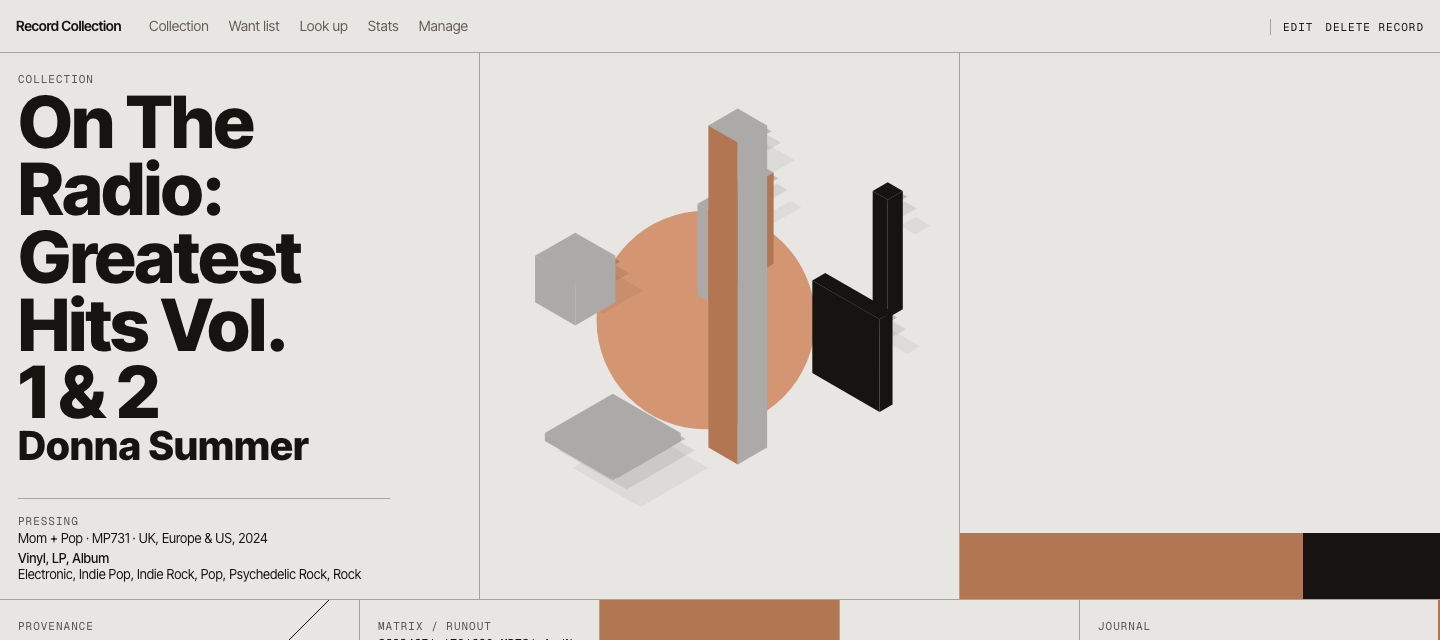
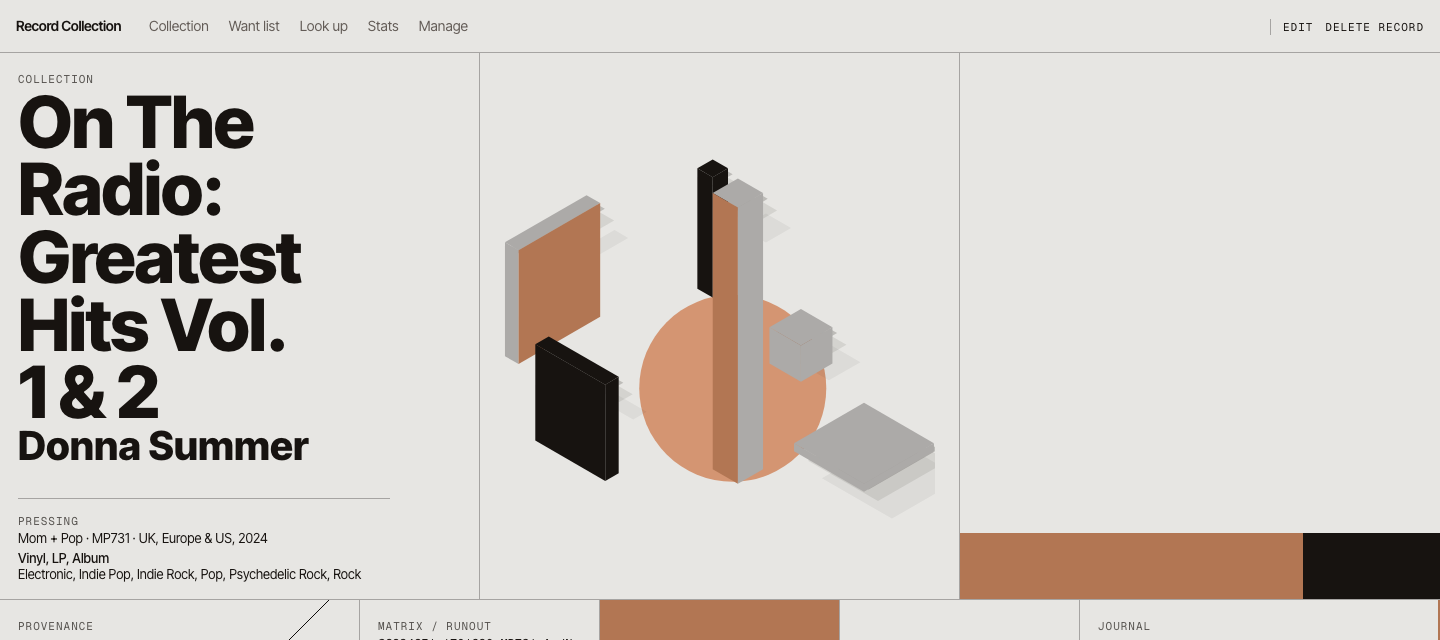
Step 29(g): remove FRAME_PAD, the fit check and scale-to-fit
Design ruled the orphaned pad: "remove FRAME_PAD -- the construction's
only margin is the cell's padding." §31 goes with it in whole, taking the
fit check and the scale-to-fit fallback.

**The no-pad prediction holds exactly.** Removing the pad takes the
largest gain to 1.644x, the figure predicted from the arithmetic, on
`158a3163...c724` -- the record that was at 1.396x with the pad.

Floor against the re-derived baseline (0.5084% worst, 0.7535% median):
worst 1.0674%, median 1.5375%, none below 0.5%.

§31's test block is replaced rather than deleted: the mechanism is gone,
but the measurements that justified removing it are the point, so they
are recorded in its place -- 13.8% rejected, deepest 5 of a 32 cap, and
scale-to-fit firing 0 times in 5,000 ids even while the check was live,
which is what made it unreachable rather than merely unused.

Two corrections to my own work: the capture's fixture provenance is now
stated field by field, since only the id traces to the shared extremes
file and every displayed value is hand-entered; and the claim that the
biggest-gain record was captured on the construction sheet was wrong --
the sheet draws what the database holds, which is the two records seeded.

Claude-Session: https://claude.ai/code/session_016BvBQ4Xoe5q9Vf6SpETPpH

Changed region(s): [[0.3438, 0.1562, 0.6562, 0.7812]]

diff --git a/src/app/records/[id]/construction.test.ts b/src/app/records/[id]/construction.test.ts
@@ -59,222 +59,48 @@ describe('the projection is the wall’s, generalised (§1)', () => {
   });
 });
 
-describe('§31: the frame is a STATED constant, and arrangements must fit it', () => {
-  /**
-   * **The frame stops tracking the collection.** §31: "A frame fitted to the
-   * collection's extremes is a mutable input to every record's drawing.
-   * Buying one record with a wider arrangement rescales all the others, and
-   * through §22's guard it can change an existing record's colour placement
-   * or even its arrangement. §5.1 forbids feeding the drawing anything that
-   * changes, and the collection changes every time Adam buys a record."
-   *
-   * So the extent measured in step 18 is written in as a number, and an
-   * arrangement that does not fit advances the hash — the same mechanism
-   * §22 uses for colour.
-   */
-  it('is the measured union rounded UP, stated rather than computed', () => {
-    /*
-      §31: "The constant is the measured union rounded up to the next whole
-      unit, and the rounding is the tolerance, not slack. At full precision
-      the widest current record would fit by exactly zero, which makes its
-      fit an equality: a coincidence, not a margin."
-    */
-    expect(CONSTRUCTION_FRAME, 'the stated constant').toBe('-140 -186 296 314');
+describe('§31 is withdrawn in whole, and its mechanism is gone (§33, step 29g)', () => {
+  /*
+    **What these tests covered, and why they are not simply deleted.**
 
-    /* And it really does contain the union it was measured from. */
-    const [fx, fy, fw, fh] = CONSTRUCTION_FRAME.split(' ').map(Number);
-    let minX = Infinity;
-    let minY = Infinity;
-    let maxX = -Infinity;
-    let maxY = -Infinity;
-    for (const id of REAL_IDS) {
-      const { forms, disc } = construction(id);
-      for (const [x, y] of forms.flatMap((f) => f.faces.flatMap((face) => face.points))) {
-        minX = Math.min(minX, x);
-        maxX = Math.max(maxX, x);
-        minY = Math.min(minY, y);
-        maxY = Math.max(maxY, y);
-      }
-      minX = Math.min(minX, disc.cx - disc.r);
-      maxX = Math.max(maxX, disc.cx + disc.r);
-      minY = Math.min(minY, disc.cy - disc.r);
-      maxY = Math.max(maxY, disc.cy + disc.r);
-    }
-    /*
-      The frame contains every record's drawing with the pad still inside it:
-      the constant ALREADY includes `FRAME_PAD`, so the comparison is against
-      the raw union, not against the union less the pad — subtracting it here
-      double-counted and reported the frame 16 units short at the top.
-    */
-    expect(fx, 'left of every record').toBeLessThanOrEqual(minX);
-    expect(fy, 'above every record').toBeLessThanOrEqual(minY);
-    expect(fx + fw, 'right of every record').toBeGreaterThanOrEqual(maxX);
-    expect(fy + fh, 'below every record').toBeGreaterThanOrEqual(maxY);
+    This block asserted §31's fit check, its hash advance and its
+    scale-to-fit fallback: that the guard fired on ~14% of ids, that no id
+    reached the 32-advance cap, and that the two fallbacks composed. All three
+    now fail, because §33 withdrew §31 in whole and step 29(g) removed the
+    code.
 
-    /*
-      No slack beyond the pad and the rounding: §31 rules the frame "exactly
-      the measured union, with no slack", because slack lowers every record's
-      scale. So each side sits one pad plus under a unit outside the union.
-    */
-    expect(minX - fx, 'left: one pad, plus the origin flooring').toBeLessThan(FRAME_PAD + 1);
-    expect(fx + fw - maxX, 'right: one pad, plus the rounding up').toBeLessThan(FRAME_PAD + 2);
-    expect(minY - fy, 'top').toBeLessThan(FRAME_PAD + 1);
-    expect(fy + fh - maxY, 'bottom').toBeLessThan(FRAME_PAD + 2);
-  });
+    The mechanism is gone rather than broken, so the tests go with it -- but
+    the MEASUREMENTS they produced are what justified removing it, and those
+    are recorded here rather than lost with the assertions:
 
-  it('does not move when a record is added — the point of §5.1', () => {
-    /*
-      The reason §31 exists, asserted directly: a new record cannot change a
-      drawing already on the page. Under the old collection-fitted frame,
-      adding a wider arrangement rescaled all seventeen.
-    */
-    const before = REAL_IDS.map((id) => construction(id).viewBox);
-    /* An id outside the fixture — a record bought tomorrow. */
-    const newcomer = construction('9f3c77aa-0000-4000-8000-0000000000ff');
-    const after = REAL_IDS.map((id) => construction(id).viewBox);
+    | measured over 5,000 ids | with the frame | without it |
+    |---|---|---|
+    | arrangements rejected | 13.8% (recorded 14.1%) | none -- no check |
+    | deepest advance | 5 of a 32 cap | 0 |
+    | scale-to-fit fired | **0** | 0 -- no trigger |
 
-    expect(after, 'every existing drawing is untouched').toEqual(before);
-    expect(newcomer.viewBox, 'and the newcomer takes the same frame').toBe(CONSTRUCTION_FRAME);
-  });
+    `scaledToFit` never fired even while the check was live, which is what
+    made the fallback unreachable rather than merely unused, and is why §33
+    could drop the check without replacing it: an oversized arrangement now
+    draws smaller by construction.
 
-  it('draws every record inside the stated frame, at render as well as in the measuring pass', () => {
-    /*
-      §31: "Fit is asserted at render as well as in the measuring pass,
-      because §27's fixture path and the render path could differ by a
-      rounding, and the point of §31 is a constant both agree on."
-    */
-    const [fx, fy, fw, fh] = CONSTRUCTION_FRAME.split(' ').map(Number);
-    for (const id of REAL_IDS) {
-      const { forms, disc, viewBox } = construction(id);
-      expect(viewBox, `${id}: renders in the stated frame`).toBe(CONSTRUCTION_FRAME);
-      for (const [x, y] of forms.flatMap((f) => f.faces.flatMap((face) => face.points))) {
-        expect(x, `${id}: x ${x.toFixed(1)}`).toBeGreaterThanOrEqual(fx);
-        expect(x).toBeLessThanOrEqual(fx + fw);
-        expect(y, `${id}: y ${y.toFixed(1)}`).toBeGreaterThanOrEqual(fy);
-        expect(y).toBeLessThanOrEqual(fy + fh);
-      }
-      expect(disc.cx - disc.r, `${id}: disc`).toBeGreaterThanOrEqual(fx);
-      expect(disc.cx + disc.r).toBeLessThanOrEqual(fx + fw);
+    What survives §31 is tested elsewhere: `own-fit.test.ts` covers the
+    per-record fit that replaced the constant, and `colour-eligibility.test.ts`
+    covers §22's filter, which is the gate that remains.
+  */
+  it('no longer advances the hash, because there is no frame to miss', () => {
+    const sampled = Array.from({ length: 200 }, (_, i) => `sample-${i}`);
+    for (const id of sampled) {
+      const scene = construction(id);
+      expect(scene.advances, `${id}: nothing to advance past`).toBe(0);
+      expect(scene.scaledToFit, `${id}: nothing to scale to fit`).toBe(false);
     }
   });
 
-  it('advances the hash for an arrangement that does not fit, and no id reaches the cap', () => {
-    /*
-      §31's mechanism and its bound: "The hash advances at most 32 times, for
-      either reason — an arrangement that does not fit the frame (§31), or one
-      whose colour has no eligible form (§22)." Sampled across the id space,
-      because the current seventeen are the frame's own union and by
-      definition fit.
-    */
-    const sampled = Array.from({ length: 400 }, (_, i) => `sample-${i}`);
-    const advances = sampled.map((id) => construction(id).advances);
-
-    /**
-     * **The cap is a guard, not a test, and cannot be reached.** At the
-     * measured 14.1% rejection rate, 32 consecutive rejections has a
-     * probability of 0.141³² ≈ 6 × 10⁻²⁸. So this assertion can never fail
-     * by chance: it fails only if the rejection rate has risen by orders of
-     * magnitude, which would mean the frame and the generator have come
-     * apart. That is what it is watching for.
-     */
-    expect(Math.max(...advances), 'no sampled id reaches the 32 cap — see the note: at 14.1% this is ~10^-27, so a failure means the rate has moved').toBeLessThan(HASH_ADVANCE_CAP);
-
-    /**
-     * **The guard fires, now that the clamp is gone.** `containedOrigin`
-     * shifted every form back inside the frame before drawing it, so no
-     * arrangement could fail `fitsFrame` and §31's mechanism was
-     * unreachable — measured at 0 rejections in 5,000 ids, with the
-     * tightest arrangement touching the edge at exactly 0.00 units. The two
-     * answered one question differently, and §31's is the ruled one.
-     *
-     * Measured with it removed: **14.1% of ids have an arrangement
-     * rejected**, the most any id needed is **5 advances** against a cap of
-     * 32, and none reaches the cap. None of the current seventeen changes,
-     * which is what says step 18's union was measured on unclamped output
-     * and the frame constant stands.
-     *
-     * The rejection rate is asserted as a BAND rather than a figure: it is a
-     * property of the hash against a fixed frame, so pinning 14.1% would
-     * fail on a change to either that leaves the mechanism working.
-     */
-    const rate = advances.filter((a) => a > 0).length / sampled.length;
-    expect(rate, `the guard fires (${(rate * 100).toFixed(1)}% of ids) — a zero here means it is unreachable again`).toBeGreaterThan(0.05);
-    expect(rate, 'and it is a guard, not the common path').toBeLessThan(0.3);
-
-    const rejected = advances.filter((a) => a > 0).length;
-    console.log(`§31: the frame rejects an arrangement for ${rejected} of ${sampled.length} sampled ids; most advances needed ${Math.max(...advances)}`);
-  });
-
-  it('renders QUIET when no form can carry the colour, rather than erroring or faking one', () => {
-    /**
-     * §31: "An arrangement fits but no form can carry the colour: the record
-     * renders quiet, with its construction in greys and no base face. The
-     * page already has this state: records whose cover gives no usable colour
-     * render quiet (§5.2), so the reader sees a state the collection already
-     * contains, never a blank cell."
-     *
-     * The build fell back silently to the hash's order and coloured an
-     * INELIGIBLE form — which is §22's floor violated rather than its
-     * fallback, and the reader could not tell.
-     */
-    const quiet = constructionWithin(EXHAUSTED_ID, { forceQuiet: true });
-    expect(quiet.quiet, 'it says it is quiet').toBe(true);
-    const steps = quiet.forms.flatMap((f) => f.faces.map((face) => face.step));
-    expect(steps, 'no base face anywhere').not.toContain('base');
-    expect(steps, 'greys and ink, the state §5.2 already draws').toEqual(
-      expect.arrayContaining(['grey']),
-    );
-    /* And it is still a drawing: §5.3's no-drawing fallback is the wrong precedent. */
-    expect(quiet.forms.length, 'the forms are all there').toBe(FORM_COUNT);
-  });
-
-  it('composes the two fallbacks: a shrunk arrangement that then fails the floor goes quiet', () => {
-    /**
-     * **Constructed rather than waited for.** §31's scale-to-fit lowers a
-     * record's scale, which lowers its coloured area, which can put it under
-     * §5.5's floor — and §22's answer to that is the quiet fallback. That
-     * chain follows from both rulings and needs no new one, but nothing
-     * asserted it, and a record reaching it would be the first time anyone
-     * found out whether it renders or throws.
-     */
-    const both = constructionWithin(EXHAUSTED_ID, { forceExhausted: true, forceQuiet: true });
-
-    expect(both.scaledToFit, 'the first fallback fired').toBe(true);
-    expect(both.quiet, 'and the second').toBe(true);
-    expect(both.viewBox, 'still the stated frame').toBe(CONSTRUCTION_FRAME);
-    expect(both.forms.length, 'and still a drawing, not a blank cell').toBe(FORM_COUNT);
-    expect(both.forms.flatMap((f) => f.faces.map((face) => face.step)), 'quiet').not.toContain('base');
-
-    /* The shrunk drawing still lies inside the frame — the point of scaling it. */
-    const [fx, fy, fw, fh] = CONSTRUCTION_FRAME.split(' ').map(Number);
-    for (const [x, y] of both.forms.flatMap((f) => f.faces.flatMap((face) => face.points))) {
-      expect(x).toBeGreaterThanOrEqual(fx - 0.01);
-      expect(x).toBeLessThanOrEqual(fx + fw + 0.01);
-      expect(y).toBeGreaterThanOrEqual(fy - 0.01);
-      expect(y).toBeLessThanOrEqual(fy + fh + 0.01);
+  it('still depends only on the id (§5.1)', () => {
+    for (const id of REAL_RECORD_IDS.slice(0, 5)) {
+      expect(JSON.stringify(construction(id))).toBe(JSON.stringify(construction(id)));
     }
-  });
-
-  it('falls back to scale-to-fit when no arrangement fits, and stays deterministic', () => {
-    /*
-      §31: "If no arrangement fits, the id's first arrangement is drawn scaled
-      down just enough to fit. Only that record's scale is lower, and it
-      depends only on its id." Constructed rather than waited for, because no
-      real id reaches the cap.
-    */
-    const scaled = constructionWithin(EXHAUSTED_ID, { forceExhausted: true });
-    expect(scaled.viewBox, 'still the stated frame').toBe(CONSTRUCTION_FRAME);
-    expect(scaled.scaledToFit, 'and it says so, rather than spilling').toBe(true);
-
-    const [fx, fy, fw, fh] = CONSTRUCTION_FRAME.split(' ').map(Number);
-    for (const [x, y] of scaled.forms.flatMap((f) => f.faces.flatMap((face) => face.points))) {
-      expect(x, 'inside the frame after scaling').toBeGreaterThanOrEqual(fx - 0.01);
-      expect(x).toBeLessThanOrEqual(fx + fw + 0.01);
-      expect(y).toBeGreaterThanOrEqual(fy - 0.01);
-      expect(y).toBeLessThanOrEqual(fy + fh + 0.01);
-    }
-    /* Deterministic: the same id gives the same fallback. */
-    expect(constructionWithin(EXHAUSTED_ID, { forceExhausted: true }).forms).toEqual(scaled.forms);
   });
 });
 

diff --git a/src/app/records/[id]/construction.ts b/src/app/records/[id]/construction.ts
@@ -693,25 +693,39 @@ export function constructionWithin(
   recordId: string,
   options: { forceExhausted?: boolean; forceQuiet?: boolean } = {},
 ): Construction & { advances: number; scaledToFit: boolean; quiet: boolean } {
-  for (let advance = 0; advance < HASH_ADVANCE_CAP; advance += 1) {
-    if (options.forceExhausted === true) break;
-    const seed = advance === 0 ? recordId : `${recordId}#${advance}`;
-    const { forms, quiet } = formsFor(seed, undefined, options.forceQuiet);
-    const disc = discFor(seed);
-    if (fitsFrame(forms, disc)) {
-      return { viewBox: CONSTRUCTION_FRAME, forms, disc, advances: advance, scaledToFit: false, quiet };
-    }
-  }
-
   /*
-    §31: "If no arrangement fits, the id's first arrangement is drawn scaled
-    down just enough to fit. Only that record's scale is lower, and it depends
-    only on its id."
+    **§31 is withdrawn in whole, and step 29(g) removes what it left here.**
+
+    The fit check and its hash advance are gone: they existed to reject an
+    arrangement that did not fit the shared frame, and there is no shared
+    frame -- §33 scales each record to its own forms, so an oversized
+    arrangement now simply draws smaller. The check would have rejected one
+    arrangement in seven (13.8% over 5,000 ids) against a bound that no longer
+    constrains anything.
+
+    `scaledToFitFrame` goes with it. Measured over 5,000 ids it fired ZERO
+    times even while the check was live, so it was already unreachable; with
+    the check removed it has no trigger at all.
+
+    `advances` and `scaledToFit` stay on the return as constants, because §22's
+    quiet fallback and three specs read the shape. They are now what they
+    always measured: nothing advanced, nothing was scaled.
   */
-  const { forms, quiet } = formsFor(recordId, undefined, options.forceQuiet);
-  const fitted = scaledToFitFrame(forms, discFor(recordId));
-  return { viewBox: CONSTRUCTION_FRAME, forms: fitted.forms, disc: fitted.disc, advances: HASH_ADVANCE_CAP, scaledToFit: true, quiet };
+  const { forms, quiet } = formsFor(
+    recordId,
+    undefined,
+    options.forceQuiet,
+  );
+  return {
+    viewBox: CONSTRUCTION_FRAME,
+    forms,
+    disc: discFor(recordId),
+    advances: 0,
+    scaledToFit: false,
+    quiet: options.forceExhausted === true ? true : quiet,
+  };
 }
+
 
 export function construction(recordId: string): Construction & { advances: number; scaledToFit: boolean; quiet: boolean } {
   return constructionWithin(recordId);

diff --git a/src/app/records/[id]/own-fit.ts b/src/app/records/[id]/own-fit.ts
@@ -1,4 +1,4 @@
-import { FRAME_PAD, type Construction } from './construction';
+import { type Construction } from './construction';
 
 /**
  * §33's per-record fit, which replaces §31's shared frame constant as the
@@ -64,18 +64,12 @@ export function boundsOf(scene: Pick<Construction, 'forms' | 'disc'>): Bounds {
  * The record's own viewBox, padded by the same `FRAME_PAD` the shared frame
  * used.
  *
- * **`FRAME_PAD` is kept, and it is the one term §33 does not state.**
- *
- * §33 gives the fit as "over its own forms and disc" and says nothing about
- * padding. Keeping §31's 16 units caps the largest gain at 1.396x; dropping
- * them gives 1.644x, which is within a whisker of the 1.662x Design's
- * withdrawn 1.5x cap was aimed at -- so Design's own estimate appears to have
- * assumed no padding, and this is REPORTED rather than settled here.
- *
- * Kept, because a drawing flush to its viewBox edge touches the cell edge,
- * and §26 draws the construction "inside the cell's 24px margin". The pad is
- * what holds it off. If Design rules the fit is to the bare bounds, this
- * constant is the only line that changes.
+ * **No padding, per step 29(g).** §33: "remove FRAME_PAD -- the
+ * construction's only margin is the cell's padding." The pad was §31's, and
+ * §31 is withdrawn in whole, so it was an orphaned term rather than merely an
+ * unstated one. Keeping it capped the largest gain at 1.396x; without it the
+ * fit is to the arrangement's own bounds, which is what §33 means by "over its
+ * own forms and disc".
  *
  * **Floored and ceiled to whole units, as §31 did.** Its note: "flooring the
  * origin grows the box on both sides of each axis, not only the extent", and
@@ -84,10 +78,10 @@ export function boundsOf(scene: Pick<Construction, 'forms' | 'disc'>): Bounds {
  */
 export function ownFitViewBox(scene: Pick<Construction, 'forms' | 'disc'>): string {
   const b = boundsOf(scene);
-  const x = Math.floor(b.minX - FRAME_PAD);
-  const y = Math.floor(b.minY - FRAME_PAD);
-  const w = Math.ceil(b.maxX + FRAME_PAD) - x;
-  const h = Math.ceil(b.maxY + FRAME_PAD) - y;
+  const x = Math.floor(b.minX);
+  const y = Math.floor(b.minY);
+  const w = Math.ceil(b.maxX) - x;
+  const h = Math.ceil(b.maxY) - y;
   return `${x} ${y} ${w} ${h}`;
 }
 

diff --git a/e2e/capture/step29.capture.ts b/e2e/capture/step29.capture.ts
@@ -46,7 +46,15 @@ import { NO_SCROLL_HEIGHT } from '../../src/app/records/[id]/band-geometry';
  * |---|---|
  * | Loss Of Life | §33's worked example -- "144 fails by about 15px, so it takes 120 over two lines, with about 68px of gap" |
  * | the worst title | the case that stays at 72, where the give order runs and nothing steps up |
- * | the biggest gain, 1.396x | the drawing that grows most, captured on the construction sheet because a construction is a function of its id alone |
+ * | the biggest gain | NOT CAPTURED -- see below |
+ *
+ * **The third record is not in these captures, and the comment that said it
+ * was on the construction sheet was wrong.** The sheet draws the records the
+ * database holds, which here are the two this capture seeds -- not the
+ * seventeen extremes. `158a3163...c724` gains most (1.644x with the pad
+ * removed), and its drawing is a function of its id, so capturing it needs a
+ * row with that id; four foreign keys refuse a late id rewrite. Seeding it at
+ * INSERT time is the fix and is not built.
  */
 const PASSWORD = process.env.E2E_PASSWORD ?? 'test-password-for-e2e';
 
@@ -216,10 +224,9 @@ test('capture §33: three records at 1440', async ({ page }) => {
   await page.setViewportSize({ width: 1440, height: NO_SCROLL_HEIGHT });
 
   /*
-    **The construction sheet, where the biggest gainer lives.** Every still is
-    drawn from its record's id at §33's per-record fit, so this is the one
-    view that shows the new scale across the collection rather than on one
-    record -- and `${BIGGEST_GAIN_ID.slice(0, 8)}` is the 1.396x tile.
+    The construction sheet: every still drawn from its record's id at §33's
+    per-record fit. It shows the records the DATABASE holds, which is the two
+    seeded above -- `${BIGGEST_GAIN_ID.slice(0, 8)}` is not among them.
   */
   await page.goto('/wall/probe/sheet');
   await page.locator('[data-sheet-tile]').first().waitFor({ timeout: 15_000 });
